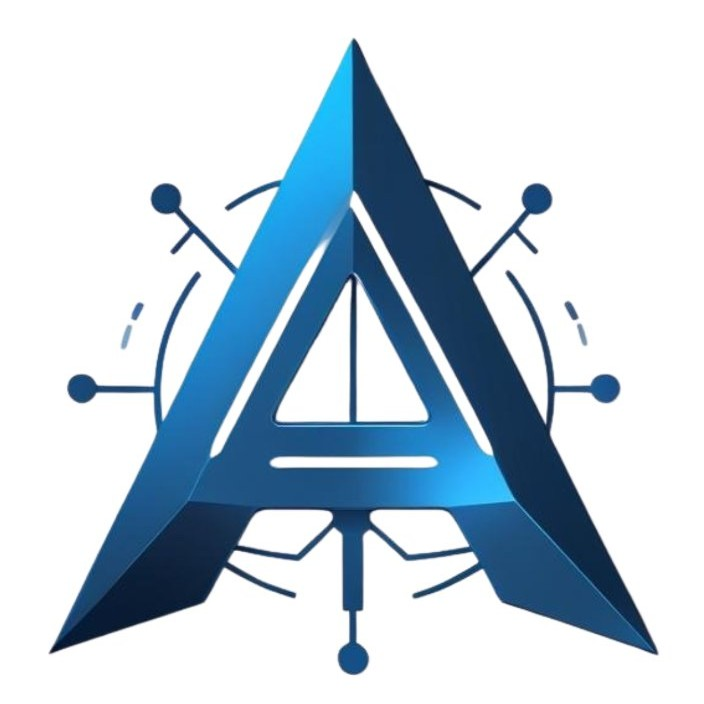
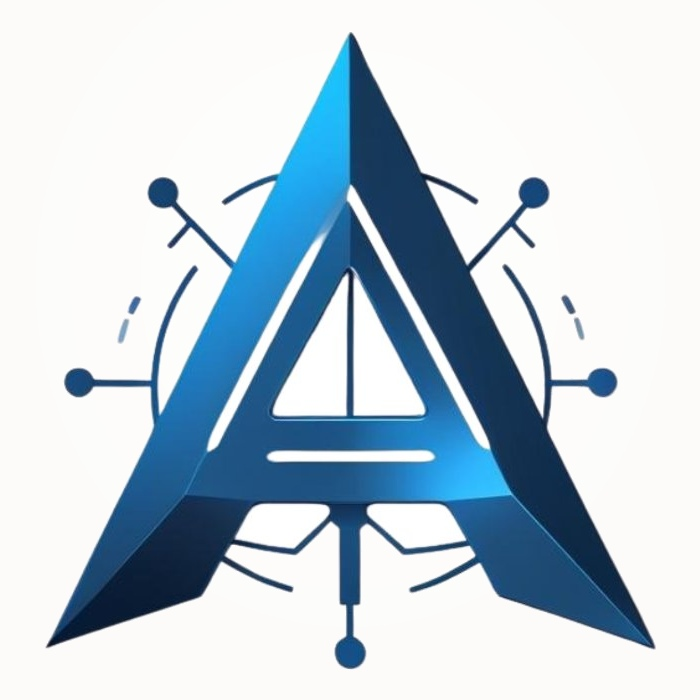
fix(assets): remove white backgrounds and noise speckles, generate transparent PNG portraits with studio lighting

diff --git a/src/components/FounderProfile.tsx b/src/components/FounderProfile.tsx
@@ -47,21 +47,37 @@ export function FounderProfile({ founder }: FounderProfileProps) {
       transition={{ duration: 0.8, delay: 0.12, ease: AETHERON_EASE }}
       className="group flex h-full flex-col overflow-hidden rounded-[28px] border border-[#E5EAF1] bg-[#FFFFFF] shadow-[0_24px_60px_-34px_rgba(20,42,73,0.12)] transition-all duration-500 hover:border-[#315EAB]/40 hover:shadow-[0_28px_70px_-28px_rgba(49,94,171,0.2)]"
     >
-      {/* Portrait Frame — pristine photographic display with smooth subtle zoom */}
-      <div className="relative aspect-[4/3] w-full overflow-hidden border-b border-[#E5EAF1] bg-gradient-to-b from-[#FAFBFD] via-[#EFF4FB]/60 to-[#FFFFFF]">
+      {/* Portrait Frame — pristine executive studio photographic display with subtle depth */}
+      <div className="relative aspect-[5/4] sm:aspect-[4/3] md:aspect-[5/4] w-full overflow-hidden border-b border-[#E5EAF1] bg-[radial-gradient(ellipse_at_50%_35%,#FFFFFF_0%,#F3F7FD_55%,#E7EFF9_100%)]">
+        {/* Architectural background lattice & soft studio spotlight */}
+        <div
+          aria-hidden="true"
+          className="pointer-events-none absolute inset-0 bg-architectural-grid opacity-25 [mask-image:radial-gradient(ellipse_at_center,#000_25%,transparent_75%)]"
+        />
+        <div
+          aria-hidden="true"
+          className="pointer-events-none absolute -top-8 left-1/2 -translate-x-1/2 h-72 w-72 rounded-full bg-[radial-gradient(circle,rgba(255,255,255,0.95)_0%,rgba(93,141,224,0.15)_45%,transparent_72%)] blur-2xl"
+        />
+
+        {/* Grounding contact shadow */}
+        <div
+          aria-hidden="true"
+          className="pointer-events-none absolute bottom-0 inset-x-12 h-8 bg-[radial-gradient(ellipse_at_bottom,rgba(20,42,73,0.12)_0%,transparent_75%)] blur-md"
+        />
+
         <Image
           src={founder.portraitSrc}
           alt={founder.portraitAlt}
           fill
           sizes="(max-width: 768px) 100vw, 50vw"
-          className="object-contain object-bottom transition-transform duration-700 ease-[cubic-bezier(0.22,1,0.36,1)] group-hover:scale-[1.03]"
+          className="object-contain object-bottom transition-transform duration-700 ease-[cubic-bezier(0.22,1,0.36,1)] group-hover:scale-[1.025]"
           priority
         />
 
-        {/* Ambient subtle light wash */}
+        {/* Ambient subtle light wash & top boundary protection */}
         <div
           aria-hidden="true"
-          className="pointer-events-none absolute inset-0 bg-gradient-to-t from-white/40 via-transparent to-transparent"
+          className="pointer-events-none absolute inset-0 ring-1 ring-inset ring-[#E5EAF1]/70"
         />
 
         {/* Top Floating Designation Badge */}

diff --git a/src/config/company.ts b/src/config/company.ts
@@ -30,8 +30,8 @@ export const COMPANY_INFO = {
     "We build intelligent technology, AI-powered systems, and software that transform complex ideas into meaningful real-world solutions.",
   shortDescription:
     "An intelligent technology company building AI-powered systems, software architecture, and next-generation industrial platforms.",
-  logoSrc: "/images/brand/aetheron-logo.jpg",
-  emblemSrc: "/images/brand/aetheron-emblem.jpg",
+  logoSrc: "/images/brand/aetheron-logo.png",
+  emblemSrc: "/images/brand/aetheron-emblem.png",
   registeredOffice:
     process.env.NEXT_PUBLIC_REGISTERED_OFFICE ||
     "[INSERT OFFICIAL REGISTERED OFFICE ADDRESS]",
@@ -144,7 +144,7 @@ export const FOUNDERS: Founder[] = [
     phone: "+91 8766536270",
     phoneRaw: "8766536270",
     linkedin: "https://www.linkedin.com/in/ayush-pardeshi-8b76b4285/",
-    portraitSrc: "/images/founders/ayush-pardeshi.jpg",
+    portraitSrc: "/images/founders/ayush-pardeshi.png",
     portraitAlt:
       "Portrait of Ayush Pardeshi, Founder & Managing Director at Aetheron.AI Technologies Private Limited",
     biography:
@@ -160,7 +160,7 @@ export const FOUNDERS: Founder[] = [
     phone: "+91 8928352406",
     phoneRaw: "8928352406",
     linkedin: "https://www.linkedin.com/in/ahana-kulkarni-753939272",
-    portraitSrc: "/images/founders/ahana-kulkarni.jpg",
+    portraitSrc: "/images/founders/ahana-kulkarni.png",
     portraitAlt:
       "Portrait of Ahana Kulkarni, Co-Founder & Technical Director at Aetheron.AI Technologies Private Limited",
     biography:

diff --git a/src/components/Preloader.tsx b/src/components/Preloader.tsx
@@ -68,7 +68,7 @@ export function Preloader() {
               className="relative flex h-24 w-24 items-center justify-center rounded-3xl border border-[#E5EAF1] bg-[#FFFFFF] p-2.5 shadow-[0_16px_40px_-16px_rgba(49,94,171,0.22)]"
             >
               <Image
-                src="/images/brand/aetheron-emblem.jpg"
+                src="/images/brand/aetheron-emblem.png"
                 alt="Aetheron.AI"
                 width={80}
                 height={80}

diff --git a/src/components/Hero.tsx b/src/components/Hero.tsx
@@ -95,7 +95,7 @@ export function Hero() {
         >
           <div className="relative h-5 w-5 overflow-hidden rounded-md border border-[#E5EAF1] bg-white">
             <Image
-              src="/images/brand/aetheron-emblem.jpg"
+              src="/images/brand/aetheron-emblem.png"
               alt="Aetheron Emblem"
               fill
               className="object-contain p-0.5"

diff --git a/src/components/SystemsArchitectureVisual.tsx b/src/components/SystemsArchitectureVisual.tsx
@@ -260,7 +260,7 @@ export function SystemsArchitectureVisual() {
               transition={{ duration: 0.9, ease: AETHERON_EASE }}
             />
             <image
-              href="/images/brand/aetheron-emblem.jpg"
+              href="/images/brand/aetheron-emblem.png"
               x="215"
               y="200"
               width="50"
